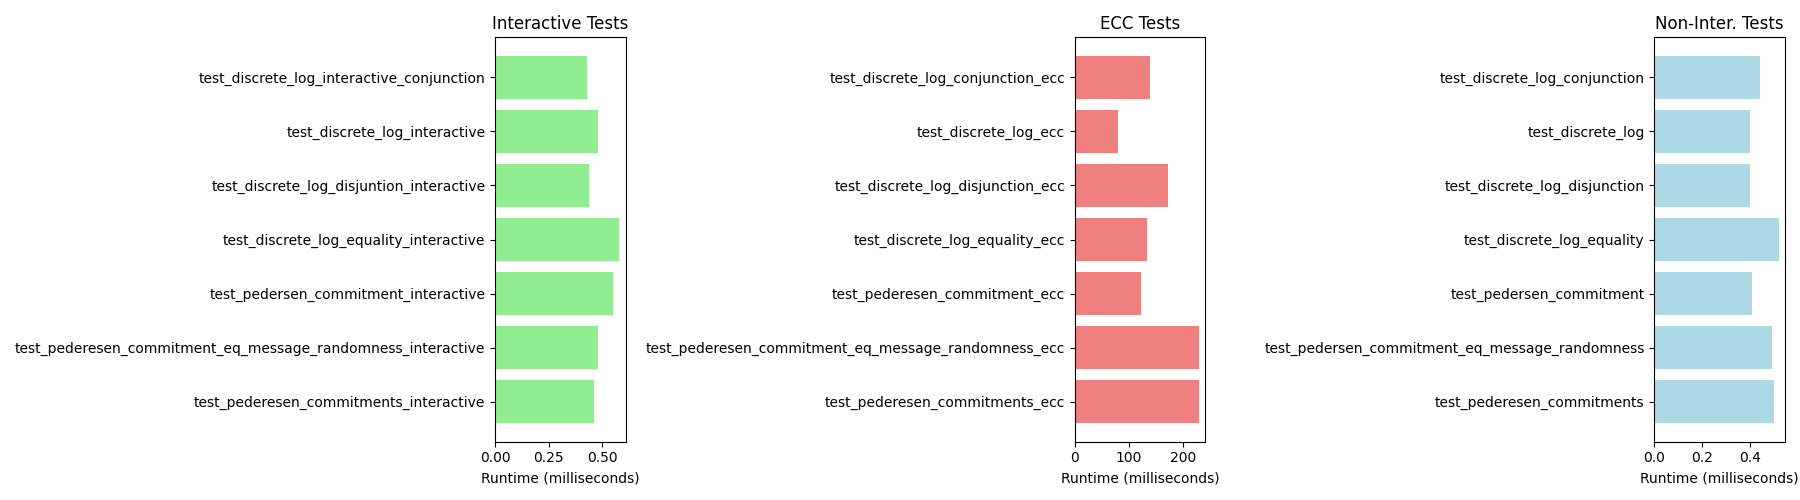
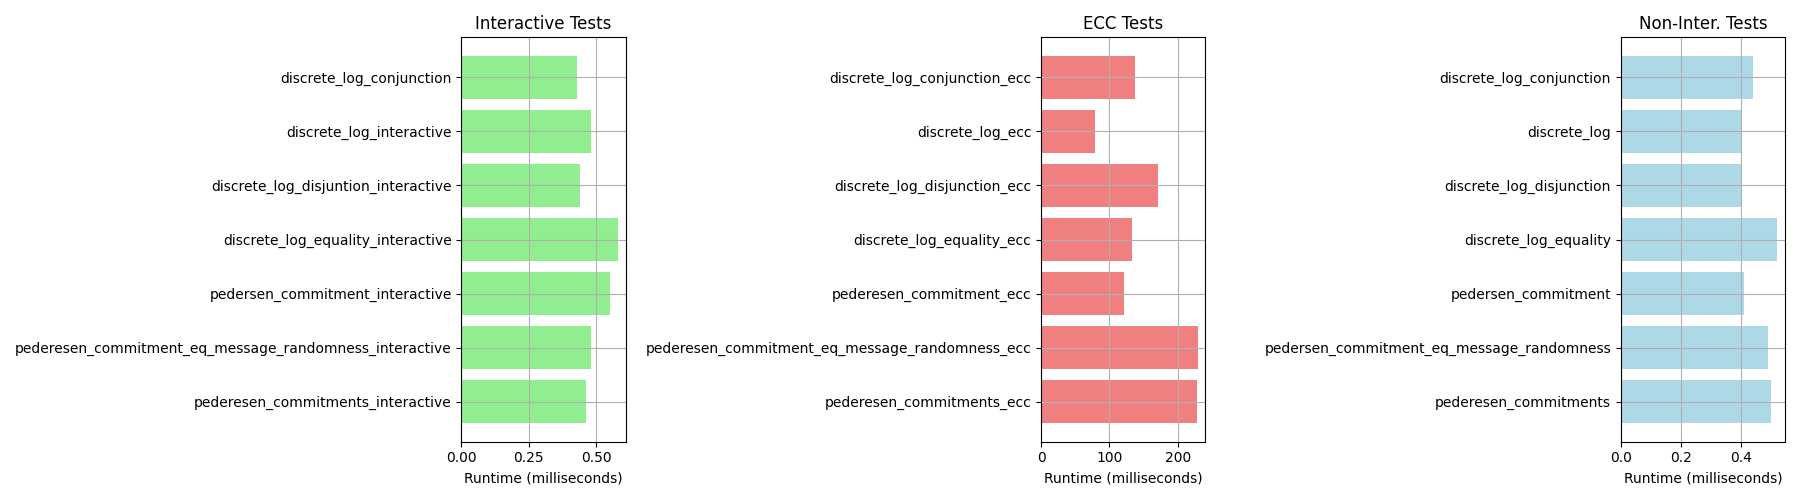
Grid on.

diff --git a/python/results/visualize.py b/python/results/visualize.py
@@ -12,11 +12,13 @@ with open('results.txt', 'r') as file:
         test_name, runtime_str = line.strip().split(': ')
         # Convert runtime to a float and remove the word 'miliseconds'
         runtime = float(runtime_str.split()[0])
-        
+        test_name = test_name.replace('test_', '')
         # Categorize the test based on its name
         if 'interactive' in test_name:
+            test_name = test_name.replace('interactive_', '')
             interactive_tests[test_name] = runtime
         elif 'ecc' in test_name:
+            test_name = test_name.replace('ecc_', '')
             ecc_tests[test_name] = runtime
         else:
             other_tests[test_name] = runtime
@@ -27,6 +29,7 @@ def plot_category(ax, category, title, color):
     ax.set_title(title)
     ax.invert_yaxis()  # Invert axis to have the highest bar at the top
     ax.set_xlabel('Runtime (milliseconds)')
+    ax.grid(True)
 
 # Create figure and axes for subplots
 fig, axes = plt.subplots(1, 3, figsize=(18, 5))  # 1 row, 3 columns
